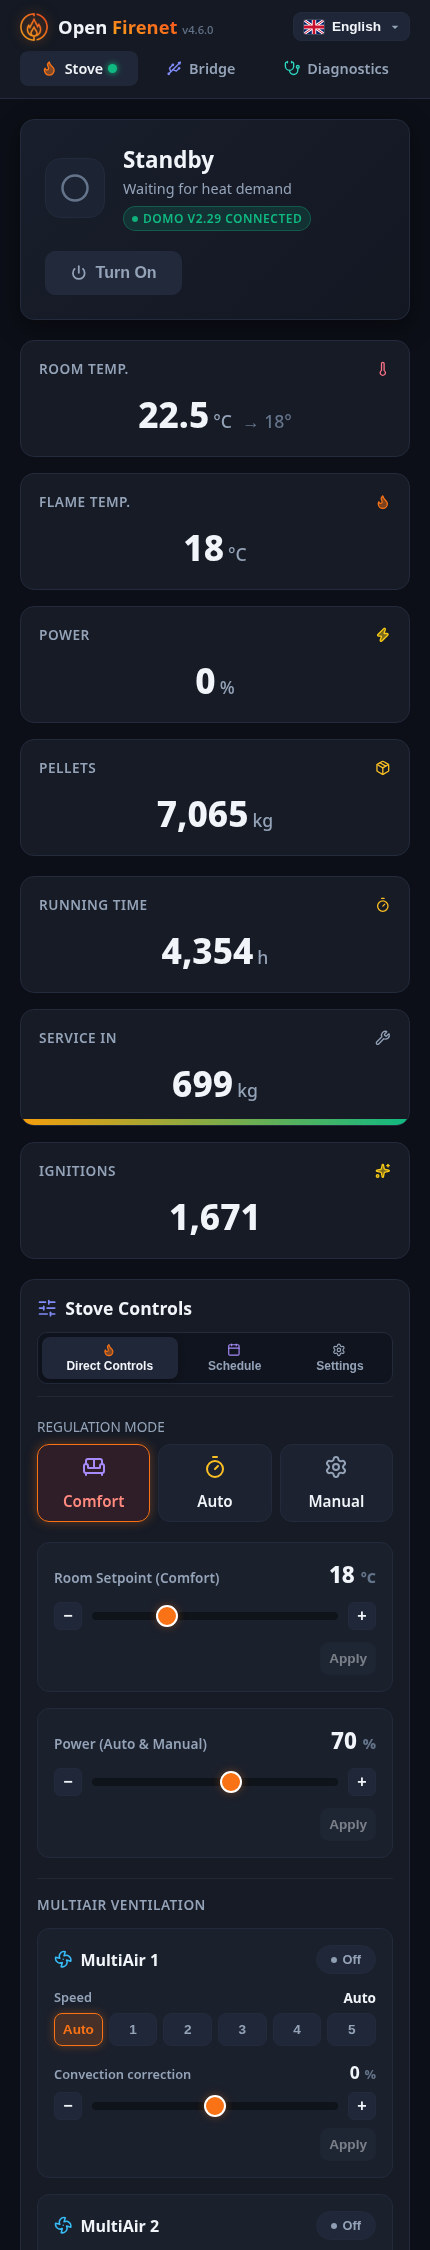
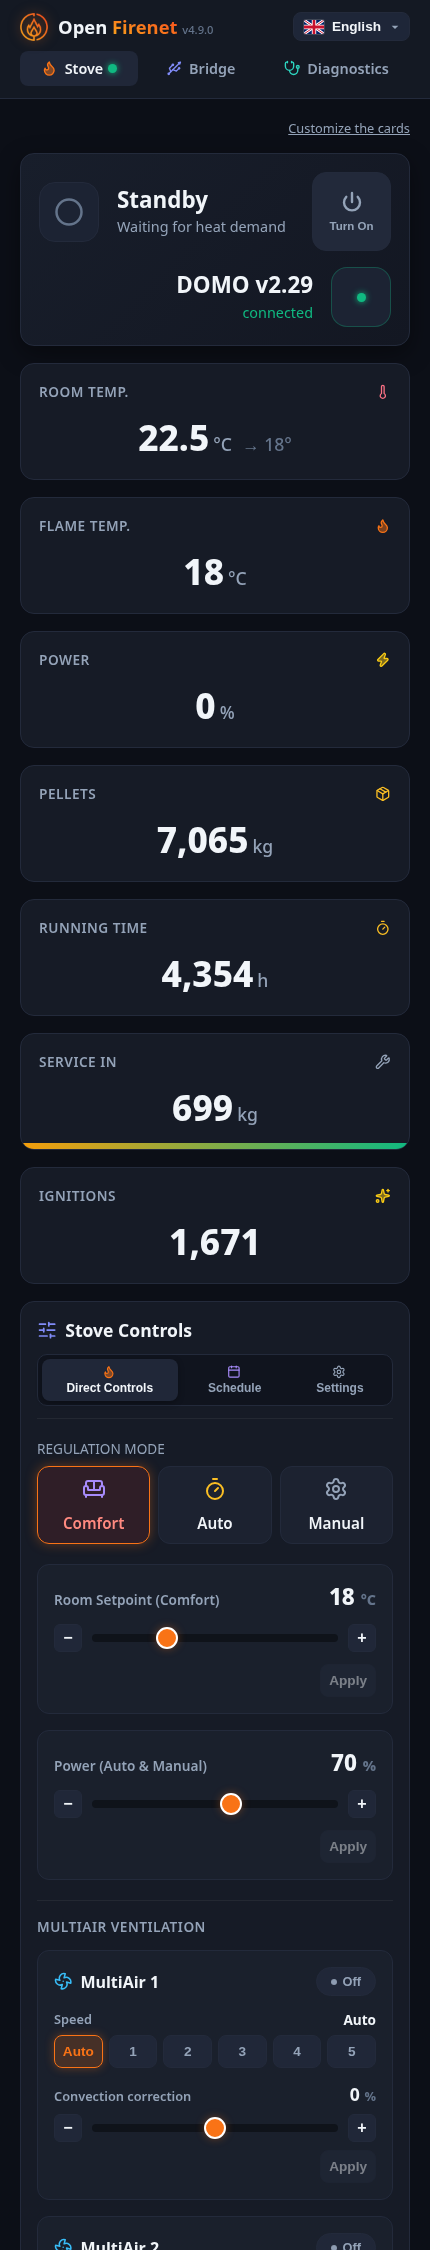
docs: add the firmware 2.25 protocol notes, refresh the README and the screenshots (#110)

diff --git a/PROTOCOL.md b/PROTOCOL.md
@@ -2,8 +2,9 @@
 
 Reverse-engineered protocol for the RIKA Firenet 2.0 WiFi dongle, as understood from
 live testing against real stoves (RIKA DOMO, mainboard firmware 2.29; RIKA INDUO,
-firmware 2.26 and 2.27) and the disassembly of the stove firmware (INDUO 2.27,
-INDUO II 2.28, DOMO 2.29) and of the official dongle firmware.
+firmware 2.26 and 2.27; RIKA SUMO, firmware 2.25, partly) and the disassembly of the
+stove firmware (SUMO 2.25, INDUO 2.27, INDUO II 2.28, DOMO 2.29) and of the official
+dongle firmware.
 
 This document describes the protocol as we understand it — the wire format, the
 message flow, and the behaviours you must reproduce for a stove to accept a
@@ -60,8 +61,12 @@ Rules read in the stove firmware, and why the order matters:
 - 2.28 recognises both `GET_WIFI_VERSION=0` and `GET_CDCDEVICE_VERSION`: it must get the
   2.28 frame before the 2.26/2.27 one, whose `APP=111` it would reject.
 
+A fourth family, **2.25**, answers none of these frames: it has no text commands at all
+and speaks numeric frames (see [Firmware 2.25](#firmware-225-sumo-sono-induo-numeric-frames)).
+
 Open Firenet therefore probes 2.29 → 2.28 → 2.26/2.27, about 3 s each, one frame at a
-time, and keeps the first one acknowledged. After a link reset it tries the family that
+time, and keeps the first one acknowledged. If none is acknowledged it falls back to the
+2.25 numeric dialect (below). After a link reset it tries the family that
 worked first. `version_frame` in `/api/state` reports it (`V3`, `V28`, `V1`).
 
 ### 2. Announcement (Status Handshake)
@@ -555,6 +560,100 @@ Open Firenet also restarts itself after 60 s without any data from the stove; on
 
 ---
 
+## Firmware 2.25 (SUMO, SONO, INDUO): numeric frames
+
+Stoves on mainboard firmware 2.25 have none of the `GET_*` / `POST_*` text commands above.
+They answer a small numeric protocol instead: one three-digit **code** per value. Most of
+what follows was read in the stove firmware (SUMO 2.25 disassembly); the parts that were
+also seen on a real stove (one SUMO, issue #110: logs and photos of its display) are
+marked **seen**, the others **read in firmware** (not tried) or **not proven**.
+
+### Detecting the family
+
+- After its USB device is configured the stove sends `0x16 0x33` once (read in firmware).
+  None of the three text version frames above is ever answered.
+- Open Firenet's rule: when the stove has sent its `0x16` probe and no text version frame
+  was acknowledged for 8 s, the bridge sends one `ACK` (`0x06`) and starts reading codes.
+  The stove's receiver only collects frames in its "probe sent" state or after an `ACK`
+  was seen (read in firmware).
+- If nothing answers after about ten rounds of reads, the bridge stops until the next
+  `0x16`. In `/api/state`, `version_frame` stays `?` (no text frame was acknowledged).
+
+### Frames
+
+| Frame | Bytes | Meaning |
+|---|---|---|
+| Read | `02` `NNN` `03` | Read of the code `NNN` (`000` … `999`) |
+| Write | `02` `NNN=value` `03` | Write of one setting |
+| Value | `02` digits `03` | The stove's answer (text for the `9xx` codes) |
+| Acknowledge | `06` / `15` | `ACK` / `NAK` |
+
+- The stove answers a read in about 40 ms (**seen**); the bridge reads one code every
+  250 ms.
+- **A write is answered with nothing at all**, not even an `ACK` / `NAK` (read in
+  firmware: its decoder only empties its buffer). The only confirmation is to **read the
+  same code back**, which the bridge does after every write.
+- Values are plain integers. The temperatures are in **whole degrees** (the other
+  firmware versions use tenths): the bridge multiplies them by 10 to show them like the
+  others.
+- The stove checks almost nothing on a write (`025` takes 0 … 255), so the bridge only
+  sends the values the stove display allows.
+
+### Live readings
+
+| Code | Meaning | Status |
+|---|---|---|
+| `000` | Room temperature, whole °C | seen |
+| `001` | Flame temperature | seen |
+| `027` / `028` | Main state / sub state (the sub-state sequence of an ignition matches the other firmware versions) | seen |
+| `012` | Pressure switch | seen (matched with the display) |
+| `013` | Grate contact | seen (matched with the display) |
+| `032` | Ignition element | seen (matched with the display) |
+| `002` … `004` | Error values (0 at rest) | by comparison with the other versions, not proven |
+| `005` | Auger, per mille | by comparison, not proven |
+| `007` | Flue fan, measured | by comparison, not proven |
+| `019` | Auger current | by comparison, not proven |
+| `016`, `017`, `029` | Digital inputs (the external request is one of `016` / `017`) | not identified |
+
+### Settings
+
+| Code | Meaning | Values written | Status |
+|---|---|---|---|
+| `023` | On / off | `0` stop, `1` start | stop: seen. **Start: not tried on a stove** |
+| `024` | Mode | `0` manual, `1` automatic, `2` comfort | seen |
+| `025` | Power of the manual mode, % | 30 … 100, steps of 5 | seen |
+| `026` | Room set point (comfort mode) | 14 … 28 °C | seen |
+| `080` | Weekly schedule on / off | `0` / `1` | seen |
+| `065` … `078` | Weekly schedule, see below | 0 … 1440 minutes | seen |
+| `081` | Reduced (setback) set point | 12 … 22 °C, at least 2 below `026` (the stove keeps that gap itself) | read in firmware, not tried |
+| `088` / `089` | Frost protection on / off, switch-on temperature | `0` / `1`; 4 … 10 °C | read in firmware, not tried |
+| `092` | Power level of the comfort mode | 1 … 4 | read in firmware, not tried |
+| `091` | Room sensor offset | never written | read only as `0`; probably tenths of a degree, not proven |
+
+The codes `034` … `064`, `082` … `087`, `090` and the texts `900` … `917` (versions, the
+stove clock) are read in turn and logged; their meaning is not mapped.
+
+**Start.** The start path of the stove does not look at its error word: it sets its "on"
+flag first and only then checks, and with an error it clears the flag again and goes to
+burn-off (read in firmware). The bridge therefore only sends a start when the stove is off
+or waiting, without error, with a cold flame sensor (below 100) and its "on" flag not set.
+The stove itself refuses an ignition above 139 degrees.
+
+### Weekly schedule
+
+- One daily range per weekday, **Sunday first**: the codes `065` … `078` are the start and
+  the end of Sunday, Monday, … Saturday, in minutes since midnight (0 … 1440). Both equal
+  (for example both 0) means no range that day.
+- **One range per day.** The stove has a second range per day, but no numeric code reaches
+  it (issue #110). The bridge presents the range as the first slot of the other firmware
+  versions (`HHMM × 10000 + HHMM`) and the second slot as 0.
+- **The switch of each day is not reachable.** `080` is the switch of the whole schedule.
+- Seen on the SUMO: writing the ranges of all seven days switched some days off on the
+  display (Monday, Saturday and Sunday were on before). The bridge now writes only the
+  days that changed. Why the stove switches a day off is not established.
+
+---
+
 ## Notes and caveats
 
 - The stove never asserts DTR — write directly to the USB CDC FIFO.
@@ -566,6 +665,8 @@ Open Firenet also restarts itself after 60 s without any data from the stove; on
   2.26 / 2.27 echo the registered names: parse them by name.
 - `roomTarget` / room temperature are **×10** on the wire in both directions.
 - `GET_REVISION` must precede `TRANSFER_COMPLETED`, or nothing is returned.
+- 2.25 uses neither dialect: numeric frames `STX NNN ETX` / `STX NNN=value ETX`, whole degrees, no answer to a
+  write (read it back).
 - 2.26 / 2.27 use `GET_FIRENET_STATUS` / `POST_FIRENET_STATUS` (19 fields,
   plain-text SSID, 8-digit id) instead of the CDC device-status commands. 2.28 uses the
   CDC commands, with an 8-digit id.

diff --git a/README.md b/README.md
@@ -199,8 +199,9 @@ Once connected, open **`http://open-firenet.local`** in any web browser (or use 
 </p>
 
 - **Modern glassmorphism UI**: mobile-first, responsive dark theme.
-- **Language selector with flags**: 🇬🇧 English / 🇫🇷 Français / 🇩🇪 Deutsch instant toggle.
-- **Live stove status header**: operational state badges (Standby, Ignition, Start, Regulation, Cleaning, Burnoff, Splitlog), room temperature, flame temperature, Wi-Fi RSSI.
+- **Language selector with flags**: 🇬🇧 English / 🇫🇷 Français / 🇮🇹 Italiano / 🇩🇪 Deutsch / 🇪🇸 Español instant toggle.
+- **Live stove status header**: operational state (Standby, Ignition, Start, Regulation, Cleaning, Burnoff, Splitlog), the start / stop button, the stove model and mainboard firmware once linked, room temperature, flame temperature, Wi-Fi RSSI. A red banner at the top of the page shows a stove error.
+- **Your own layout of the Stove page**: *Customize the cards* lets you move every block (the state, each metric card, the controls) by dragging it or with arrows, make it narrower or wider, hide the metric cards, and choose 4 to 8 columns. The page is a list of lines, each with its own columns where blocks stack, so cards can sit beside the controls (which keep at least their usual width). While you arrange, the rest of the page is locked so a stray tap changes nothing. The layout is kept in your browser only: nothing is stored on the bridge.
 - **Control Deck ("Stove Controls")** with segmented navigation:
   - **🔥 Direct Controls**:
     - Power **ON / OFF** toggle
@@ -220,7 +221,7 @@ Once connected, open **`http://open-firenet.local`** in any web browser (or use 
   - **📅 Weekly Heating Schedule**:
     - Independent schedule activation toggle (**Heating schedule active**) — works across all heating modes
     - **Setback Temperature (Eco)**: setback temperature applied outside scheduled heating slots (10.0°C – 25.0°C)
-    - **14 Weekly time slots** (2 slots per day, Monday to Sunday):
+    - **14 Weekly time slots** (2 slots per day, Monday to Sunday; a stove with firmware 2.25 takes one slot a day, so the second one is hidden):
       - Native HTML5 time pickers (`HH:MM` start and end)
       - Quick copy actions (e.g. Monday $\rightarrow$ Weekdays or Full Week)
       - Per-day clear button (quick reset)
@@ -275,7 +276,8 @@ What matters is the **mainboard firmware version** of the stove (menu Info on th
 | **2.29** (e.g. DOMO, DOMO BACK, PRIMO MULTIAIR) | ✅ Supported | All values and settings |
 | **2.28** (e.g. LIVO, INDUO II, SONO) | ✅ Supported | All values and settings, MultiAir included (no baking oven on these stoves) |
 | **2.26 / 2.27** (e.g. INDUO) | ✅ Supported | All values and settings (no MultiAir / baking oven on these stoves) |
-| **2.25 and older** | ❓ Untested | Feedback welcome |
+| **2.25** (e.g. SUMO) | ⚠ Partial | Early support (bridge firmware 4.9 or later): the bridge reads the state, temperatures and inputs, and sets the mode, the manual power, the room set point, the reduced set point, the frost protection, the comfort power level and the weekly schedule (one time range a day, no per-day switch), and starts and stops the stove. Tried on one stove: the mode, the manual power, the room set point, the stop and the weekly schedule. **Not tried on a stove:** the start and the other settings. Room temperature in whole degrees. Please send the diagnostic file if you try it. Protocol notes in [PROTOCOL.md](PROTOCOL.md) |
+| **Older than 2.25** | ❓ Untested | Feedback welcome |
 
 ---
 
@@ -407,7 +409,7 @@ Since firmware 4.0 the bridge answers its own page and programs on your network 
 - `room_temperature` is `null` and `room_sensor_connected` is `false` when no RIKA room sensor is connected.
 - `stove.model`, `stove.model_name`, `stove.brand`, `stove.mainboard_version` and `stove.firmware_build` are `null` until the stove has sent them (the bridge is not linked yet).
 - `usb.host_connected` is `true` once a USB host (the stove) has detected the bridge on the board's native USB port, and `usb.rx_bytes` counts the bytes received from the stove since boot. `false` / `0` usually means the stove is plugged into the wrong port of the board (UART / COM), a charge-only cable, or a stove that is off.
-- `version_frame` tells which protocol variant the stove answered: `V3` (firmware 2.29), `V28` (2.28), `V1` (2.26 / 2.27).
+- `version_frame` tells which protocol variant the stove answered: `V3` (firmware 2.29), `V28` (2.28), `V1` (2.26 / 2.27). It is `?` as long as no text version frame was acknowledged, which is the case of a stove on firmware 2.25 (it speaks numeric frames, see [PROTOCOL.md](PROTOCOL.md)).
 - `raw_sensors` holds every value reported by the stove under its name; the names follow the official RIKA ones (`statusWarning`, `airFlaps`, `errCount0`...), see [PROTOCOL.md](PROTOCOL.md).
 
 ### `POST /api/controls` (Direct controls & MultiAir)
@@ -462,7 +464,7 @@ On firmware 2.28 the settings are sent as on 2.26 / 2.27.
 
 ### Weekly Heating Schedule API (`/api/schedule`)
 
-The heating schedule controls heating windows across the 7 days of the week (2 slots per day). Time slots are encoded over the wire as decimal integers: `(StartHH * 100 + StartMM) * 10000 + (EndHH * 100 + EndMM)`. For example, `06:00` to `08:30` is encoded as `6000830`, and `0` indicates a disabled slot.
+The heating schedule controls heating windows across the 7 days of the week (2 slots per day; 1 on a stove with firmware 2.25, see below). Time slots are encoded over the wire as decimal integers: `(StartHH * 100 + StartMM) * 10000 + (EndHH * 100 + EndMM)`. For example, `06:00` to `08:30` is encoded as `6000830`, and `0` indicates a disabled slot.
 
 #### `GET /api/schedule`
 
@@ -521,6 +523,8 @@ Supported fields:
 - `heatingTimesActive` (or `scheduleActive`): boolean or `0`/`1`
 - `setback_temperature` (or `setBackTemp`): float in °C (e.g. `16.5`) or raw integer ×10 (`165`)
 - `heatTimeMon1`, `heatTimeMon2`, `heatTimeTue1`, ..., `heatTimeSun2`: integer slot encoding (`0` = disabled)
+
+**Stoves with firmware 2.25** take one range a day: only `heatTime<Day>1` is used and the second slot is always `0`. `GET /api/schedule` and `GET /api/state` tell it with `slots_per_day` / `schedule_slots_per_day` (`1` instead of `2`), and `GET /api/schedule` adds `day_ranges`: the range of each weekday (`Sun` ... `Sat`) as `start` and `end` in minutes since midnight, as the stove holds it. The switch of each day cannot be read or set on these stoves. A save writes only the days that changed.
 
 
 ---
@@ -593,7 +597,7 @@ Reports from your stove, tests, translations, documentation and code are all wel
 
 ## Translations
 
-The web page, the Home Assistant integration and the installer are in English, French and German. Adding a language needs no programming: see [docs/TRANSLATING.md](docs/TRANSLATING.md).
+The web page, the Home Assistant integration and the installer are in English, French, Italian, German and Spanish. Adding a language needs no programming: see [docs/TRANSLATING.md](docs/TRANSLATING.md).
 
 ## Development
 
